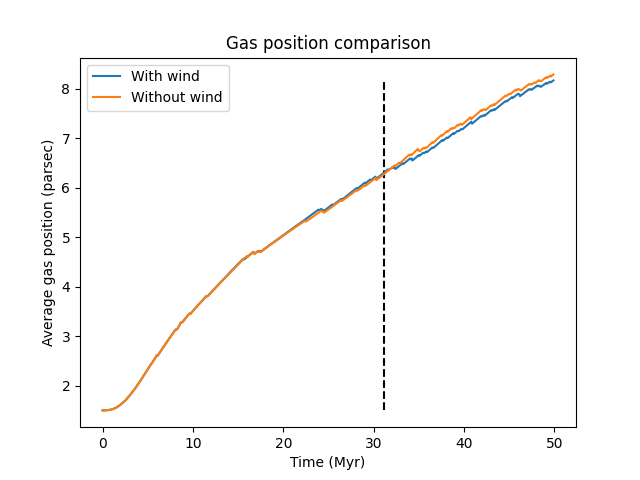
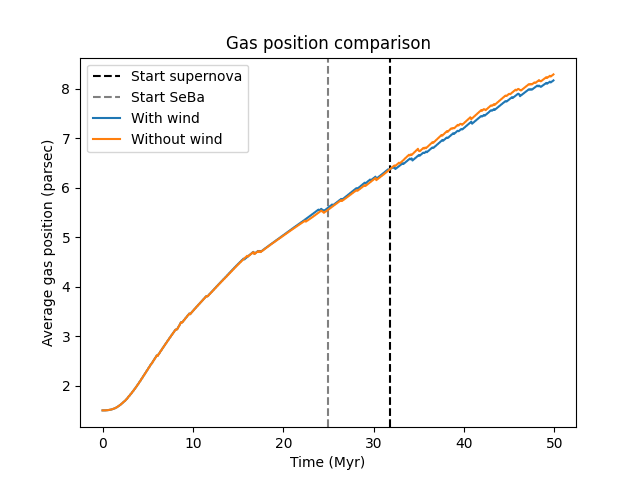
made plots

Changed region(s): [[0.125, 0.125, 0.375, 0.3125], [0.5938, 0.1562, 0.625, 0.8438]]

diff --git a/src/postprocessing.py b/src/postprocessing.py
@@ -3,22 +3,25 @@ import matplotlib.pyplot as plt
 from amuse.units import units
 from matplotlib import animation
 
-# times = np.load("./data/times_ratio1_run0.npy", allow_pickle=True)
+# times = np.load("./data/veelsims/times_ratio1_run0.npy", allow_pickle=True)
 # for i in range(len(times)):
 #     times[i] = times[i].value_in(units.Myr)
 
-# runs_per_gasmass = np.arange(0, 20)
-# gas_mass_ratios = [25]
+# runs_per_gasmass = [6, 7, 8, 12, 20, 24, 25, 27, 28]
+# gas_mass_ratios = [5]
 # for gasmass in gas_mass_ratios:
 #     avg_pos = np.zeros(len(times))
 #     avg_vel = np.zeros(len(times))
 #     for run in runs_per_gasmass:
 #         filestring = "_ratio{}_run{}".format(gasmass, run)
 
-#         gas = np.load("./data/gas{}.npy".format(filestring), allow_pickle=True)
-#         bodies = np.load("./data/bodies{}.npy".format(filestring), allow_pickle=True)
+#         gas = np.load("./data/veelsims/gas{}.npy".format(filestring), allow_pickle=True)
+#         bodies = np.load("./data/veelsims/bodies{}.npy".format(filestring), allow_pickle=True)
 #         # times = np.load("./data/times{}.npy".format(filestring), allow_pickle=True)
-#         gas_indices = np.load("./data/gas_indices{}.npy".format(filestring), allow_pickle=True)
+#         gascomp = np.load("./data/veelsims/compgas{}.npy".format(filestring), allow_pickle=True)
+#         bodiescomp = np.load("./data/veelsims/compbodies{}.npy".format(filestring), allow_pickle=True)
+
+#         gas_indices = np.load("./data/veelsims/gas_indices{}.npy".format(filestring), allow_pickle=True)
 
 #         SNtime = 0 | units.Myr
 #         for i in range(1, len(times)):
@@ -28,9 +31,46 @@ from matplotlib import animation
 #                 # break
 #         print(SNtime)
 
-#         # for i in range(len(times)):
-#         #     avg_pos[i] += np.average(gas[i].position.lengths().value_in(units.parsec))
-#         #     avg_vel[i] += np.average(gas[i].velocity.lengths().value_in(units.ms))
+#         Us = []
+#         Uscomp = []
+#         Ks = []
+#         Kscomp = []
+#         for t in range(len(times)):
+#             print(t)
+#             #stars
+#             # Us.append(-bodies[t].potential_energy().value_in(units.m**2 * units.kg * units.s**-2))
+#             # Uscomp.append(-bodiescomp[t].potential_energy().value_in(units.m**2 * units.kg * units.s**-2))
+#             # Ks.append(bodies[t].kinetic_energy().value_in(units.m**2 * units.kg * units.s**-2))
+#             # Kscomp.append(bodiescomp[t].kinetic_energy().value_in(units.m**2 * units.kg * units.s**-2))
+#             #gas
+#             # Us.append(-gas[t][:gas_indices[t]].potential_energy().value_in(units.m**2 * units.kg * units.s**-2))
+#             # Uscomp.append(-gascomp[t].potential_energy().value_in(units.m**2 * units.kg * units.s**-2))
+#             # Ks.append(gas[t][:gas_indices[t]].kinetic_energy().value_in(units.m**2 * units.kg * units.s**-2))
+#             # Kscomp.append(gascomp[t].kinetic_energy().value_in(units.m**2 * units.kg * units.s**-2))
+#             #both
+#             Us.append(-gas[t][:gas_indices[t]].potential_energy().value_in(units.m**2 * units.kg * units.s**-2) - bodies[t].potential_energy().value_in(units.m**2 * units.kg * units.s**-2))
+#             # Uscomp.append(-gascomp[t].potential_energy().value_in(units.m**2 * units.kg * units.s**-2) - bodiescomp[t].potential_energy().value_in(units.m**2 * units.kg * units.s**-2))
+#             Ks.append(gas[t][:gas_indices[t]].kinetic_energy().value_in(units.m**2 * units.kg * units.s**-2) + bodies[t].kinetic_energy().value_in(units.m**2 * units.kg * units.s**-2))
+#             # Kscomp.append(gascomp[t].kinetic_energy().value_in(units.m**2 * units.kg * units.s**-2) + bodiescomp[t].kinetic_energy().value_in(units.m**2 * units.kg * units.s**-2))
+#         plt.figure()
+#         plt.semilogy(times, Us, label="Potential energy")
+#         # plt.semilogy(times, Uscomp, label="Potential energy without winds")
+#         plt.semilogy(times, Ks, label="Kinetic energy")
+#         # plt.semilogy(times, Kscomp, label="Kinetic energy without winds")
+#         # plt.plot(times, np.array(Ks) - np.array(Us))
+
+#         # plt.title("Energy comparison{} {}".format(gasmass, run))
+#         plt.xlabel("Time (Myr)")
+#         plt.ylabel("Energy (m^2 kg s^-2)")
+#         plt.axvline(SNtime, 0, 1, color="black", linestyle="dashed", label="Start supernova")
+#         plt.axvline(20, 0, 1, color="gray", linestyle="dashed", label="Start SeBa")
+#         plt.legend()
+#         plt.show()
+
+
+        # for i in range(len(times)):
+        #     avg_pos[i] += np.average(gas[i].position.lengths().value_in(units.parsec))
+        #     avg_vel[i] += np.average(gas[i].velocity.lengths().value_in(units.ms))
 #     print(gasmass)
 #     avg_pos /= len(runs_per_gasmass)
 #     avg_vel /= len(runs_per_gasmass)
@@ -65,18 +105,23 @@ bodies = np.load("./data/bodies{}.npy".format(filestring), allow_pickle=True)
 gascomp = np.load("./data/gas{}.npy".format(filestringcomp), allow_pickle=True)
 bodiescomp = np.load("./data/bodies{}.npy".format(filestringcomp), allow_pickle=True)
 
+
+    
+
 times = np.load("./data/times{}.npy".format(filestring), allow_pickle=True)
 gas_indices = np.load("./data/gas_indices{}.npy".format(filestring), allow_pickle=True)
 for i in range(len(times)):
     times[i] = times[i].value_in(units.Myr)
-
+plt.scatter(gas[0].x[:gas_indices[0]+1].value_in(units.parsec), gas[0].y[:gas_indices[0]+1].value_in(units.parsec), s=0.5, label="Gas", alpha=0.5)
+plt.scatter(bodies[0].x.value_in(units.parsec), bodies[0].y.value_in(units.parsec), s=3, label="Stars")
+plt.show()
 #find time at which supernova starts
 SNtime = 0 | units.Myr
 for i in range(1, len(times)):
     # print(len(gas[i]), times[i])
     if len(gas[i]) > len(gas[i-1]):
         SNtime = times[i]
-        break
+        # break
 print(SNtime)
 
 def plot_avg_velocities():
@@ -89,7 +134,8 @@ def plot_avg_velocities():
     plt.title("Gas velocity comparison")
     plt.xlabel("Time (Myr)")
     plt.ylabel("Average gas velocity (m/s)")
-    plt.vlines(SNtime, np.min(vels), np.max(vels), color="black", linestyle="dashed")
+    plt.axvline(SNtime, 0, 1, color="black", linestyle="dashed", label="Start supernova")
+    plt.axvline(25, 0, 1, color="gray", linestyle="dashed", label="Start SeBa")
     plt.plot(times, vels, label="With wind")
     plt.plot(times, velscomp, label="Without wind")
     plt.legend()
@@ -105,7 +151,8 @@ def plot_avg_positions():
     plt.title("Gas position comparison")
     plt.xlabel("Time (Myr)")
     plt.ylabel("Average gas position (parsec)")
-    plt.vlines(SNtime, np.min(poss), np.max(poss), color="black", linestyle="dashed")
+    plt.axvline(SNtime, 0, 1, color="black", linestyle="dashed", label="Start supernova")
+    plt.axvline(25, 0, 1, color="gray", linestyle="dashed", label="Start SeBa")
     plt.plot(times, poss, label="With wind")
     plt.plot(times, posscomp, label="Without wind")
     plt.legend()
@@ -141,20 +188,11 @@ def plot_energies():
     plt.title("Energy comparison")
     plt.xlabel("Time (Myr)")
     plt.ylabel("Energy (m^2 kg s^-2)")
-    # plt.vlines(SNtime, np.min(Ks), np.max(Ks), color="black", linestyle="dashed")
+    plt.axvline(SNtime, 0, 1, color="black", linestyle="dashed", label="Start supernova")
+    plt.axvline(25, 0, 1, color="gray", linestyle="dashed", label="Start SeBa")
     plt.legend()
     plt.savefig("./figures/energy.png")
 
-    # plt.figure()
-    # data = []
-    # for t in range(len(times)):
-    #     data.append(Ks[t]/Us[t])
-    # plt.semilogy(times, data)
-    # plt.vlines(SNtime, np.min(data), np.max(data), color="black", linestyle="dashed")
-    # plt.title("boundness energy")
-    # plt.xlabel("Time (Myr)")
-    # plt.ylabel("Energy ratio between kinetic and potential energy")
-    # plt.savefig("./figures/energy_rel.png")
 
 def make_animation(frame):
     print(frame)
@@ -196,12 +234,12 @@ def make_columndensity(frame):
     ax.scatter(bodies[frame].x.value_in(units.parsec), bodies[frame].y.value_in(units.parsec), s=3, label="Stars")
 
 
-fig, ax = plt.subplots(2)
-ax[0].set_box_aspect(1)
-ax[1].set_box_aspect(1)
-anim = animation.FuncAnimation(fig, make_animation, frames=len(times))
-writer = animation.FFMpegWriter(fps=len(times)/20.)
-anim.save("./figures/animation.mp4", writer=writer)
+# fig, ax = plt.subplots(2)
+# ax[0].set_box_aspect(1)
+# ax[1].set_box_aspect(1)
+# anim = animation.FuncAnimation(fig, make_animation, frames=len(times))
+# writer = animation.FFMpegWriter(fps=len(times)/20.)
+# anim.save("./figures/animation.mp4", writer=writer)
 
 # fig, ax = plt.subplots()
 # anim = animation.FuncAnimation(fig, make_columndensity, frames=len(times))

diff --git a/src/sph.py b/src/sph.py
@@ -43,7 +43,7 @@ class Clustersimulation:
     """Simulation class."""
 
     def __init__(self, gasmass, run):
-        self.load = True
+        self.load = False
         self.evostars = False
         self.gasmass = gasmass
         self.run = run
@@ -52,25 +52,36 @@ class Clustersimulation:
         self.dt_hydro = 0.04 | units.Myr
         self.dt_bridge = 0.02 | units.Myr  #1.0*Pinner
         # self.dt_SN = 0.01 | units.Myr
-        self.n_stars = 10
-        self.n_gas = 1000  # 10000
+        self.n_stars = 1000
+        self.n_gas = 10000
         self.r_cluster = 1.0 | units.parsec
         self.t_end = 50.0 | units.Myr
         self.settle_time = self.t_end - (25.0|units.Myr)
 
         gravconverter = self.init_stars()
         ## Maak gasdeeltjes
-        gasconverter=nbody_system.nbody_to_si((self.gasmass+1)*self.total_mass, self.r_cluster*2)
+        gasconverter=nbody_system.nbody_to_si(1|units.kg, self.r_cluster*2)
         if not self.load:
             self.gas = self.create_swiss_cheese_gas(gasconverter)
         else:
             self.gas = np.load("./data/initgas.npy", allow_pickle=True)[0]
-        self.lastgas = self.gas[-1]
+        # print(type(self.gas))
+        # self.gas.remove(self.gas)
+        # print(self.gas)
+        # # self.lastgas = self.gas[-1]
+
+        plt.scatter(self.gas.x.value_in(units.parsec), self.gas.y.value_in(units.parsec), s=0.5, label="Gas", alpha=0.5)
+        plt.scatter(self.bodies.x.value_in(units.parsec), self.bodies.y.value_in(units.parsec), s=3, label="Stars")
+        plt.xlabel("Parsec")
+        plt.ylabel("Parsec")
+        plt.title("Fractal example")
+        plt.show()
 
         if not self.load:
             np.save("./data/initgas.npy", [self.gas])
             np.save("./data/initbodies.npy", [self.bodies])
             addasdas
+            
 
         
         self.hydrocode(gravconverter)
@@ -249,10 +260,10 @@ class Clustersimulation:
             self.evolution.evolve_model(timestamp - self.settle_time)
         self.channel["evo_to_grav"].copy()
         self.channel["evo_to_stars"].copy()
-        # self.channel["stars_to_wind"].copy()      # wind with hydro and grav: Book 8.1.1 p.323
-        # self.wind.evolve_model(timestamp)
+        self.channel["stars_to_wind"].copy()      # wind with hydro and grav: Book 8.1.1 p.323
+        self.wind.evolve_model(timestamp)
         self.gas = delete_outofbounds(self.gas)
-        # self.gas.synchronize_to(self.hydro.particles)
+        self.gas.synchronize_to(self.hydro.particles)
         self.gravhydro.evolve_model(timestamp)
         self.channel["to_stars"].copy()
         self.channel["to_gas"].copy()
@@ -295,12 +306,12 @@ def main(gasmass, run):
 
 if __name__ == "__main__":
     fix_cwd()
-    # runs_per_gasmass = np.arange(24, 50)
-    # gas_mass_ratios = [25]
-    # for gasmass in gas_mass_ratios:
-    #     for run in runs_per_gasmass:
-    #         main(gasmass, run)
-    exit(main(5, "finalcomp"))
+    runs_per_gasmass = np.arange(0, 10)
+    gas_mass_ratios = [5]
+    for gasmass in gas_mass_ratios:
+        for run in runs_per_gasmass:
+            main(gasmass, "{}".format(run))
+    # exit(main(5, "finalcomp2"))
 
 
 # Interessant boek? https://misaladino.com/wp-content/uploads/2019/11/Thesis_Martha_Irene.pdf
